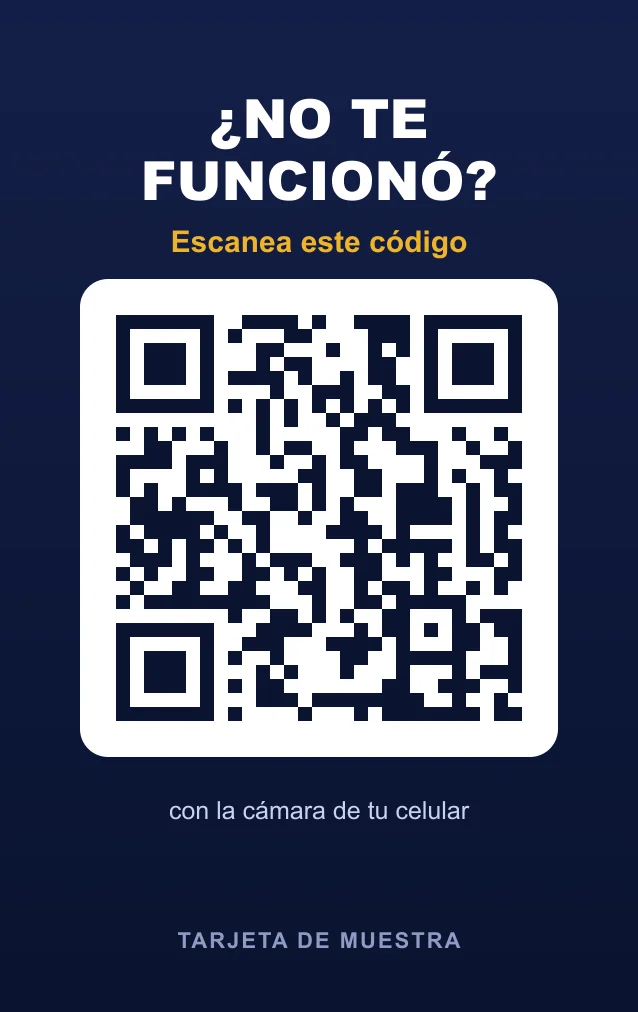
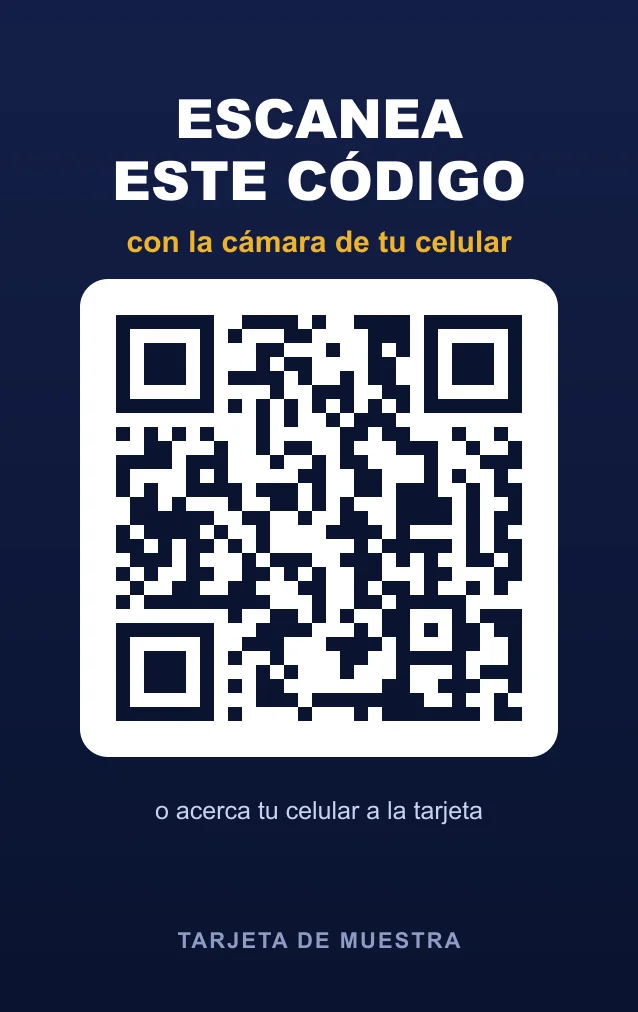
Cambiar el texto del reverso de la tarjeta NFC
Samuel no quiere el "¿No te funcionó?": presenta el QR como un plan B para
cuando algo falla. Ahora dice "Escanea este código con la cámara de tu
celular, o acerca tu celular a la tarjeta", que ofrece las dos formas como
igual de válidas.

Changed region(s): [[0.1787, 0.0919, 0.8339, 0.2757], [0.2382, 0.7964, 0.7743, 0.8271]]

diff --git a/components/sections/TarjetaNfc.tsx b/components/sections/TarjetaNfc.tsx
@@ -19,7 +19,7 @@ import imgReverso from "@/public/tarjeta-nfc-reverso.webp";
 // cualquier visitante curioso le dejaría una reseña sin haber ido nunca, que es
 // justo lo que Google castiga. Ver lib/tarjetas.ts.
 const ALT_REVERSO =
-  "Parte de atrás de la tarjeta: ¿No te funcionó? Escanea este código con la cámara de tu celular. Un código QR y el número de la tarjeta.";
+  "Parte de atrás de la tarjeta: Escanea este código con la cámara de tu celular, o acerca tu celular a la tarjeta. Un código QR y el número de la tarjeta.";
 
 // Los cinco diseños que Samuel escogió para las tarjetas (octubre de 2026). Se
 // muestra uno grande y los demás
